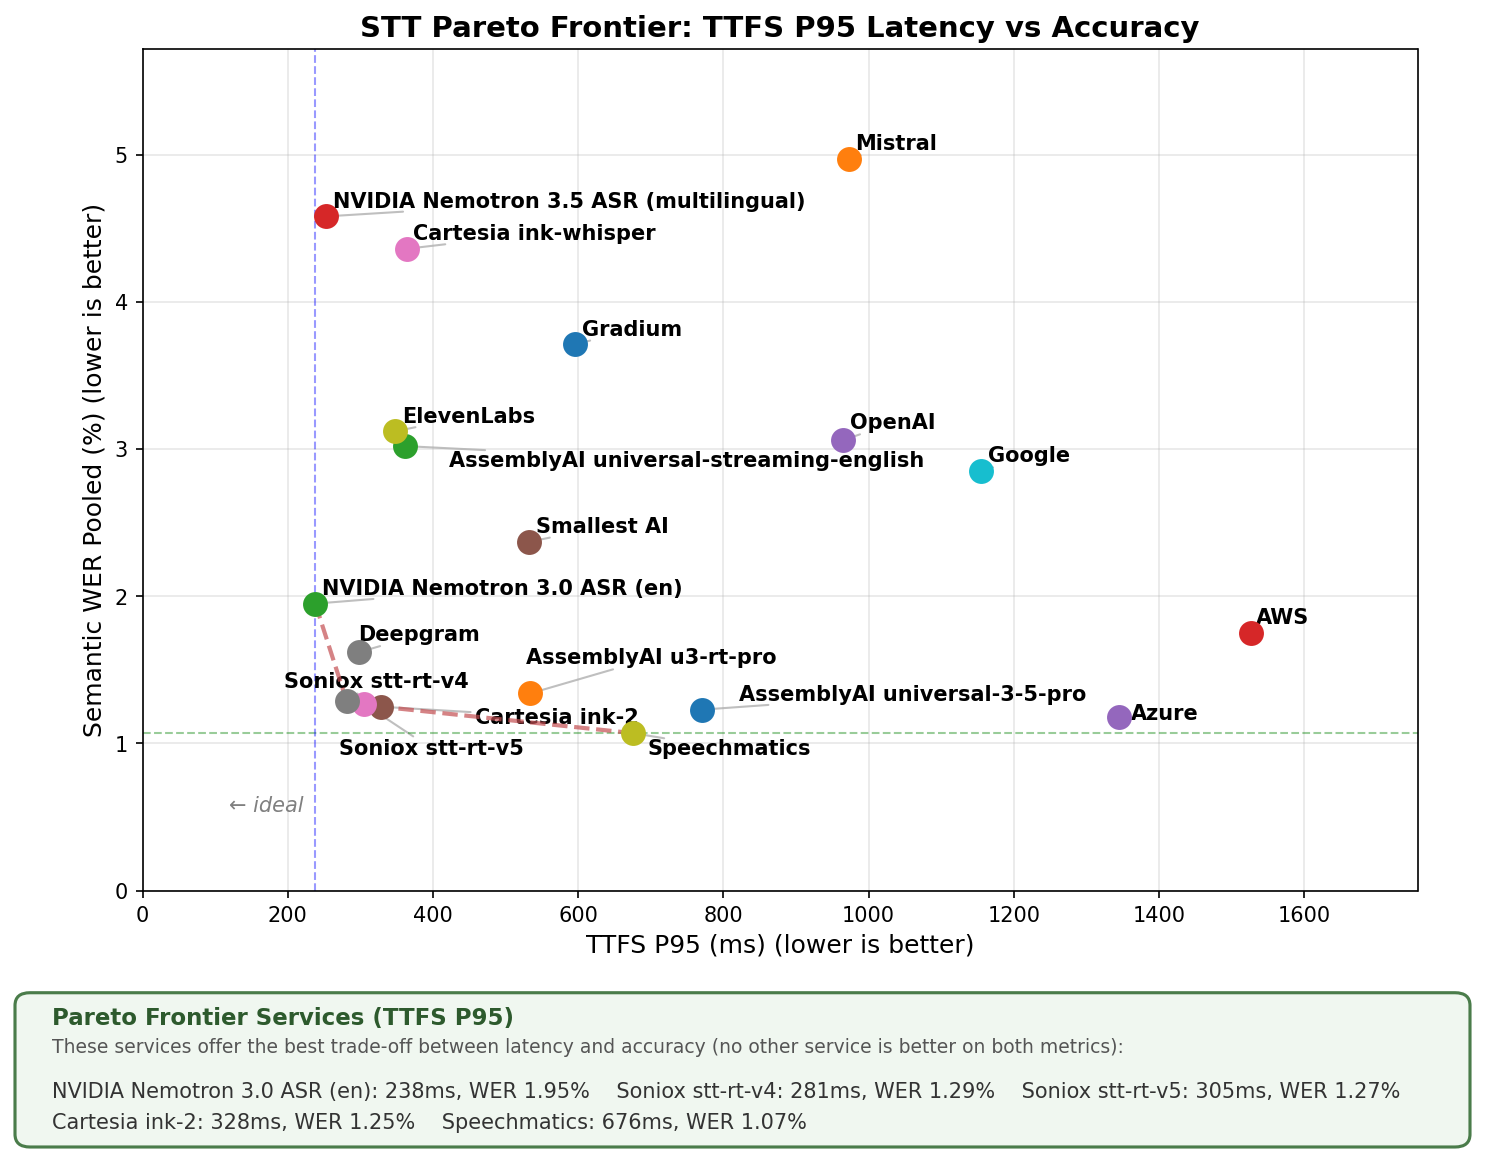
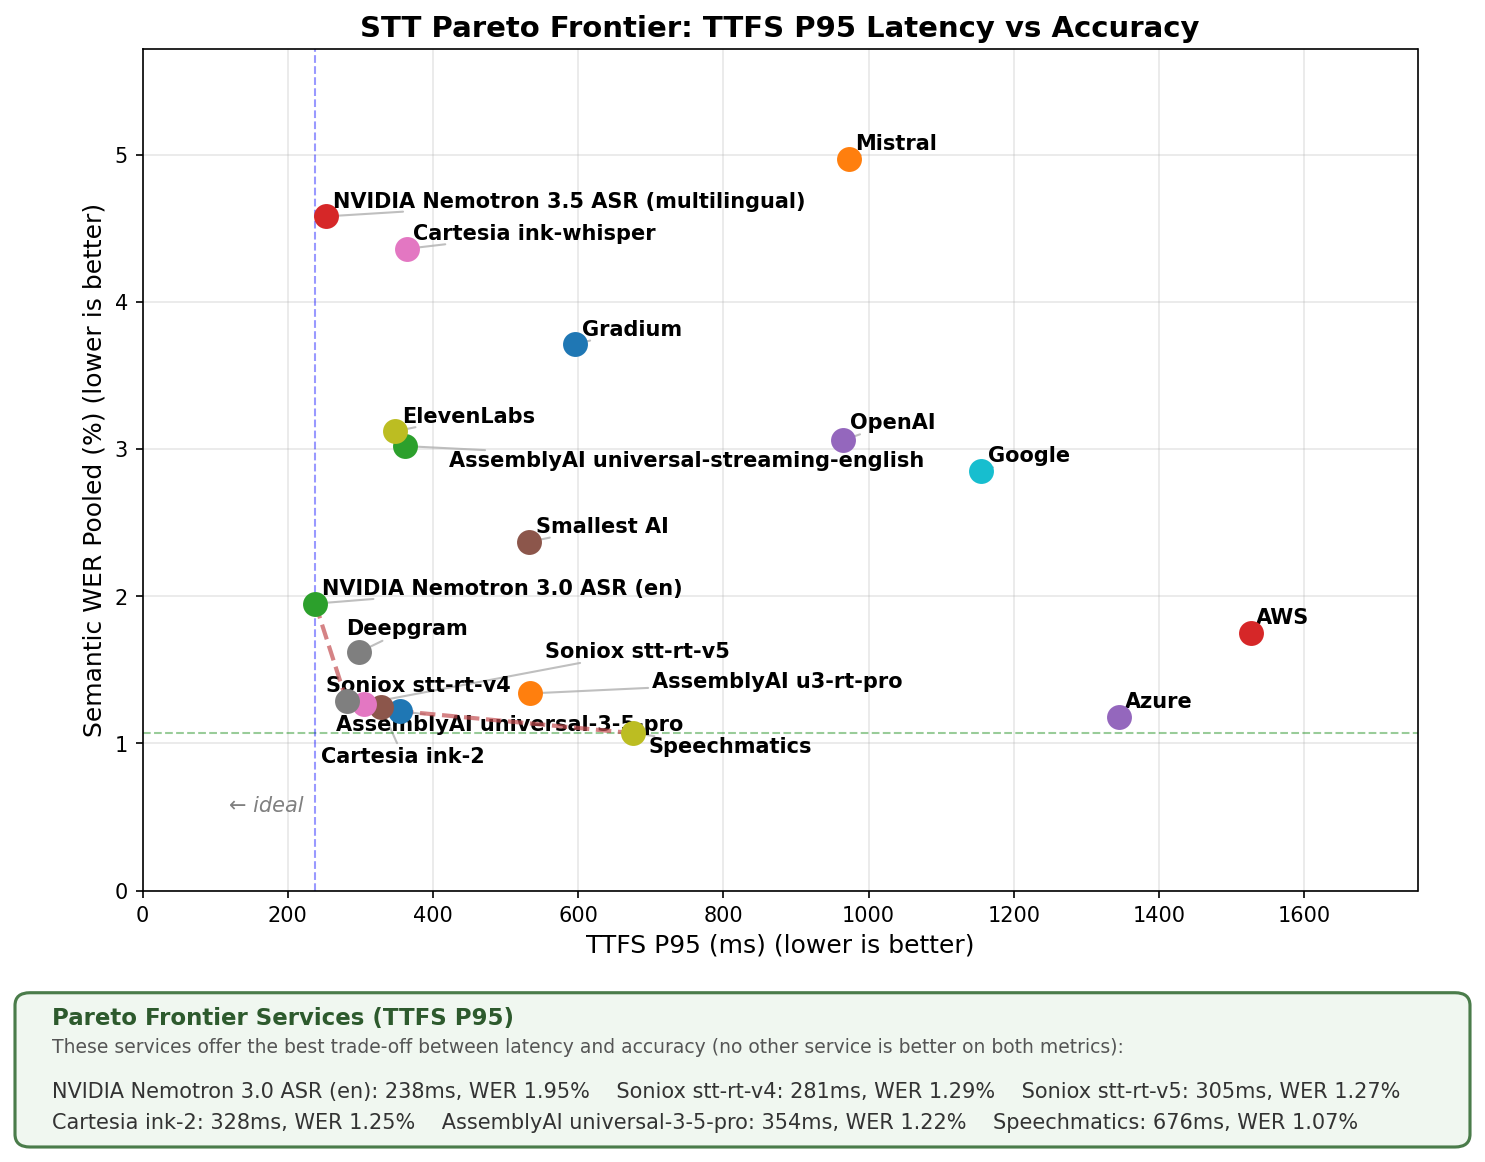
Update results for AssemblyAI universal-3-5-pro

diff --git a/README.md b/README.md
@@ -9,7 +9,7 @@ Benchmark results on 1000 samples from the `pipecat-ai/smart-turn-data-v3.1-trai
 <!-- RESULTS_TABLE:START -->
 | Vendor | Model | Transcripts | Perfect | WER Mean | Pooled WER | TTFS Median | TTFS P95 | TTFS P99 |
 |--------|-------|-------------|---------|----------|------------|-------------|----------|----------|
-| AssemblyAI | universal-3-5-pro | 99.9% | 85.3% | 1.44% | 1.23% | 427ms | 771ms | 899ms |
+| AssemblyAI | universal-3-5-pro | 99.9% | 84.7% | 1.44% | 1.22% | 282ms | 354ms | 393ms |
 | AssemblyAI | u3-rt-pro | 99.8% | 83.9% | 1.74% | 1.34% | 335ms | 534ms | 613ms |
 | AssemblyAI | universal-streaming-english | 99.8% | 66.8% | 3.49% | 3.02% | 256ms | 362ms | 417ms |
 | AWS | N/A | 100.0% | 77.4% | 1.68% | 1.75% | 1136ms | 1527ms | 1897ms |
